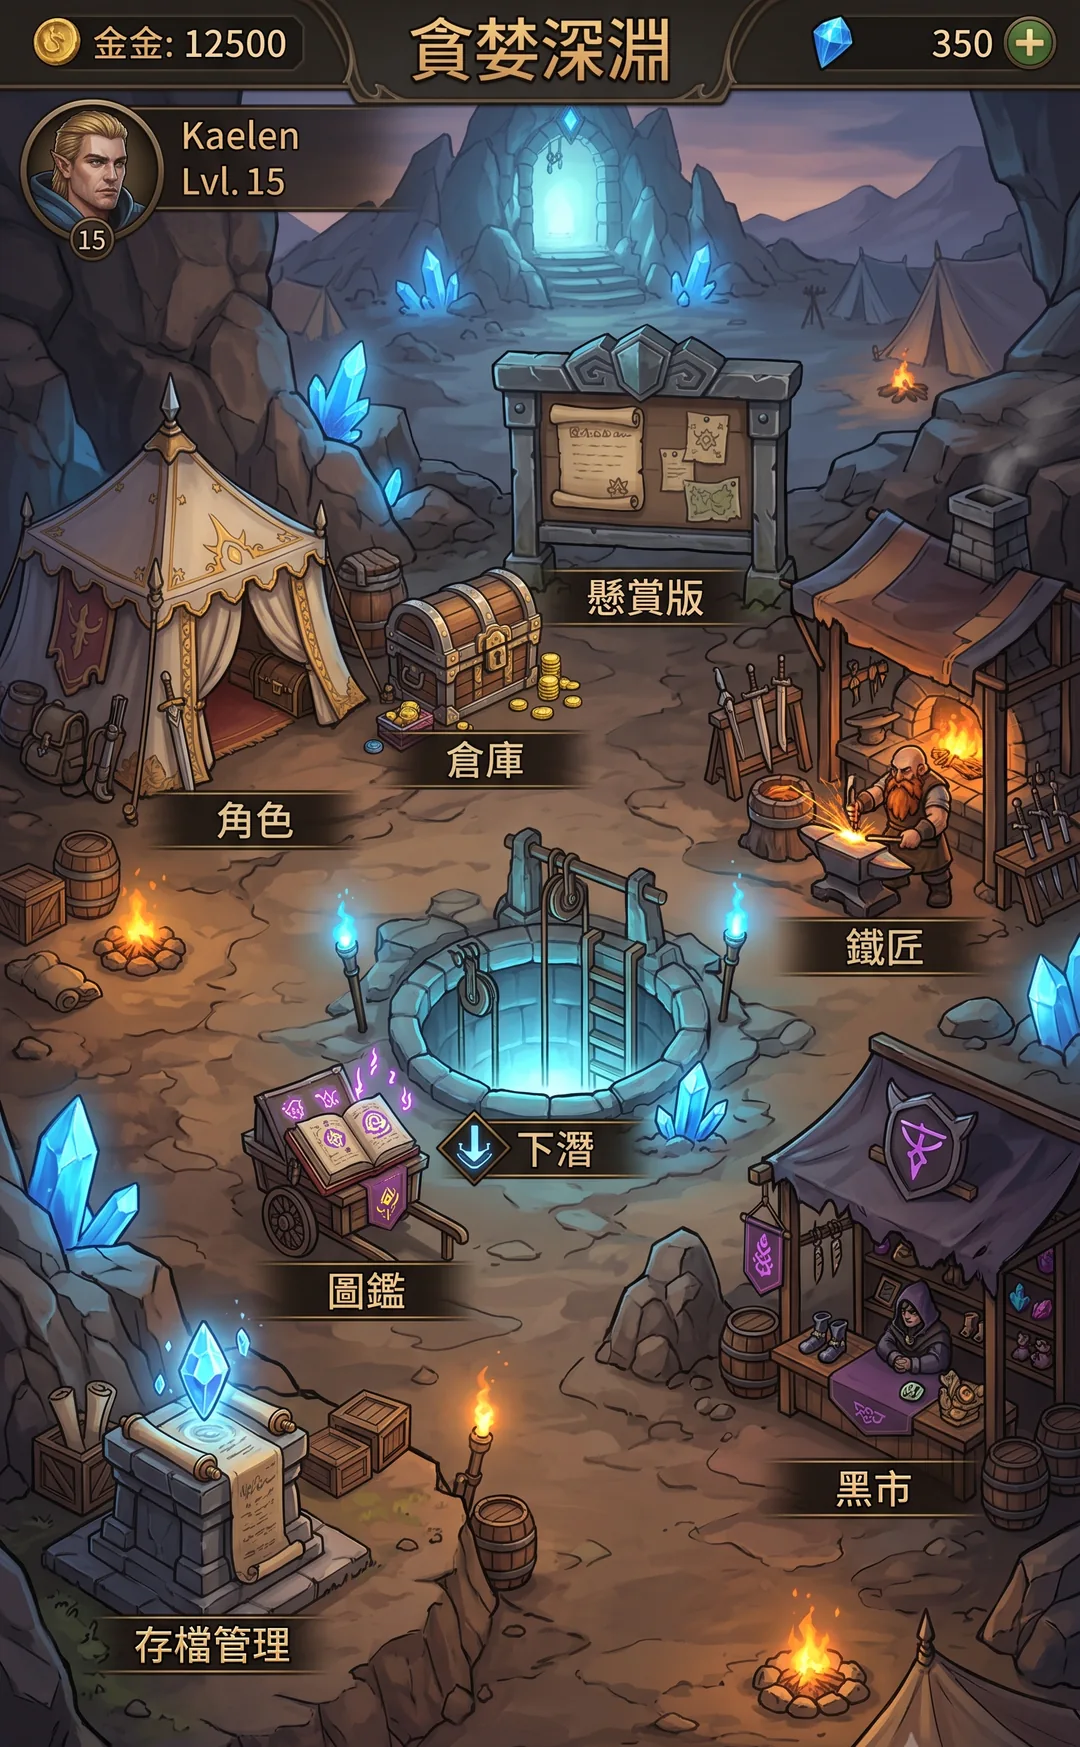
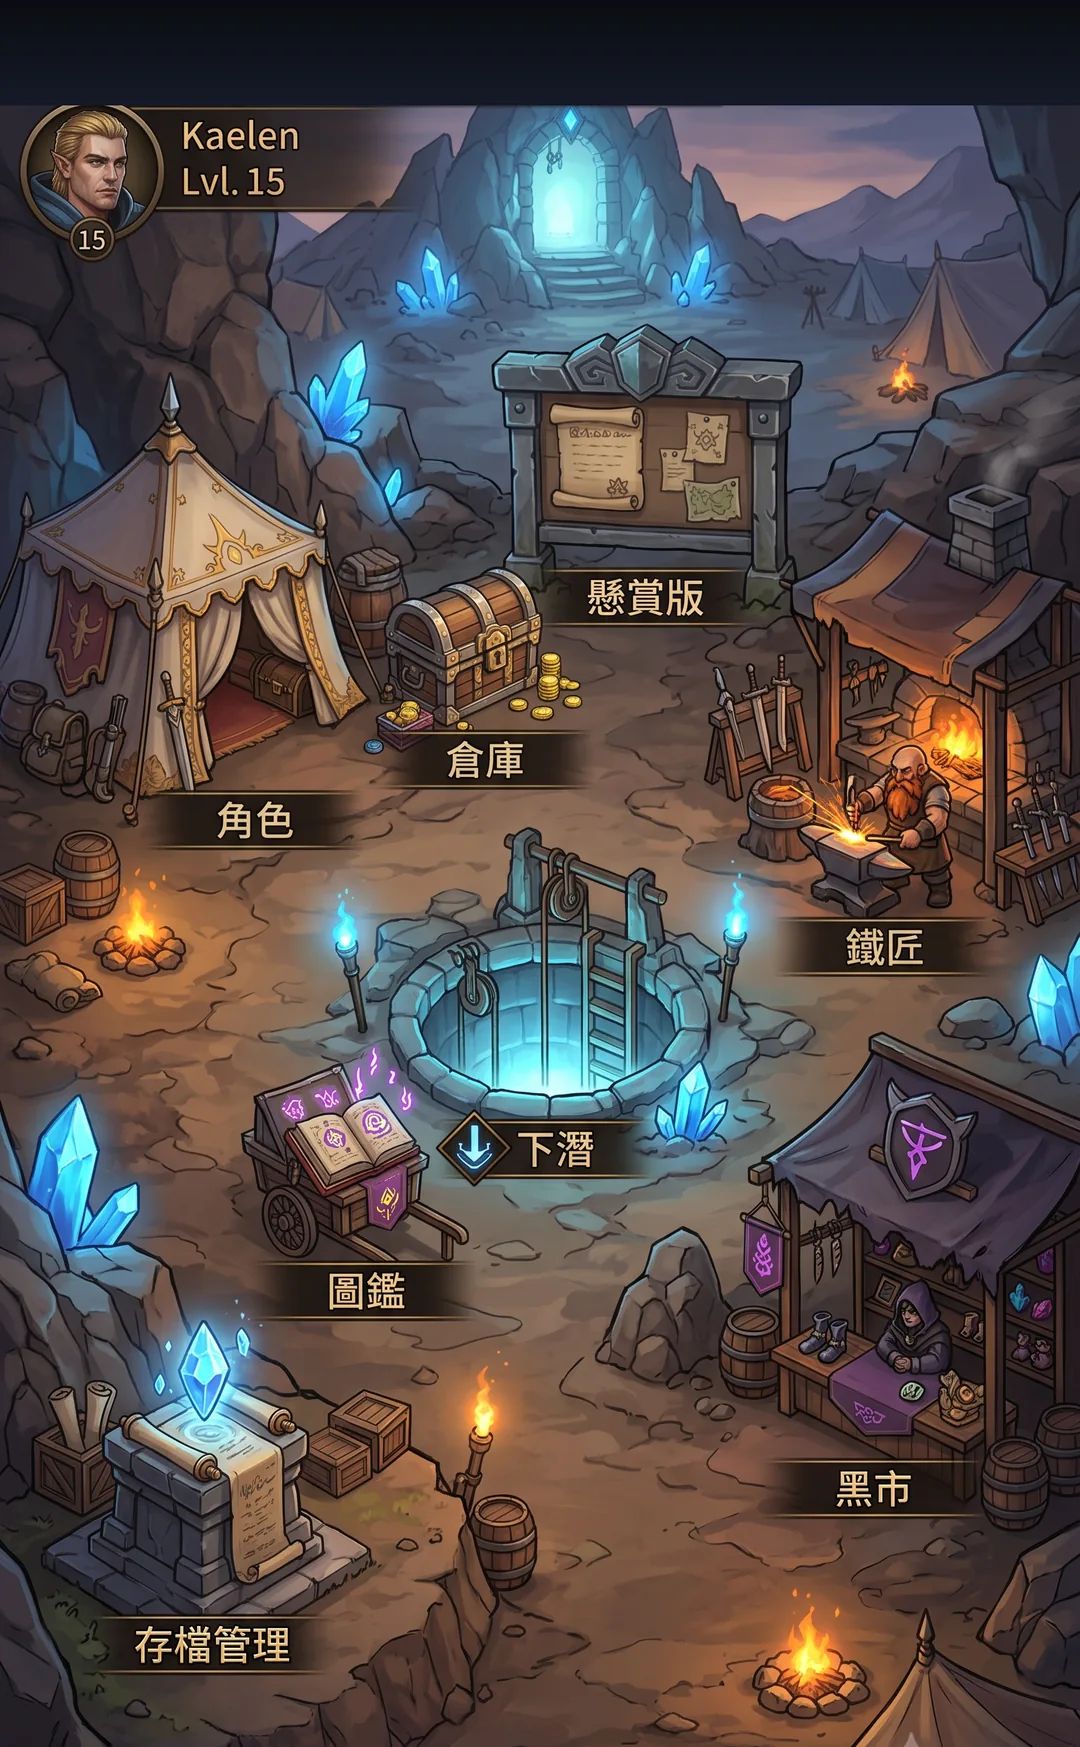
Add files via upload

Changed region(s): [[0.0, 0.0, 1.0, 0.0618]]

diff --git a/rpg/index.html b/rpg/index.html
@@ -6,7 +6,7 @@
 <meta name="apple-mobile-web-app-capable" content="yes">
 <meta name="theme-color" content="#0b0d12">
 <title>貪婪深淵</title>
-<link rel="stylesheet" href="style.css?v=338">
+<link rel="stylesheet" href="style.css?v=339">
 </head>
 <body>
 <div id="app">
@@ -16,7 +16,7 @@
   <div class="spacer"></div>
   <h1 class="title">貪婪深淵</h1>
   <div class="subtitle">深入一層，或帶著一切離開</div>
-  <div style="text-align:center;color:var(--dim);font-size:12px;letter-spacing:2px;margin-top:8px">V3.38</div>
+  <div style="text-align:center;color:var(--dim);font-size:12px;letter-spacing:2px;margin-top:8px">V3.39</div>
   <div class="spacer"></div>
   <button class="btn primary" onclick="titleStart()">進入深淵</button>
   <div style="height:10px"></div>
@@ -39,6 +39,7 @@
 <!-- ===== 營地 ===== -->
 <div class="screen" id="s-camp">
   <div class="camp-scene">
+    <div class="ov-title">貪婪深淵</div>
     <div class="ov-gold">🪙 <span id="camp-gold">0</span></div>
     <div class="ov-hero" onclick="openRoster()">
       <span class="ov-hero-ic" id="camp-cls-ic"></span>
@@ -158,6 +159,6 @@
 </div>
 <div class="sheet-mask" id="sheet-mask" onclick="if(event.target===this)closeSheet()"><div class="sheet" id="sheet"></div></div>
 <div class="toast" id="toast"></div>
-<script src="data.js?v=338"></script><script src="core.js?v=338"></script><script src="account.js?v=338"></script><script src="items.js?v=338"></script><script src="battle.js?v=338"></script><script src="run.js?v=338"></script><script src="ui.js?v=338"></script>
+<script src="data.js?v=339"></script><script src="core.js?v=339"></script><script src="account.js?v=339"></script><script src="items.js?v=339"></script><script src="battle.js?v=339"></script><script src="run.js?v=339"></script><script src="ui.js?v=339"></script>
 </body>
 </html>

diff --git a/rpg/style.css b/rpg/style.css
@@ -90,7 +90,8 @@ h1.title{
 .milestone{font-size:12px;color:var(--dim);text-align:center;margin-top:2px;}
 /* 營地美圖：背景圖＋透明熱區＋動態疊層 */
 #s-camp{padding:0;}
-.camp-scene{position:relative;width:100%;flex:1;min-height:0;overflow:hidden;background:#0b0d12 url("camp.webp?v=338") center center/cover no-repeat;}
+.camp-scene{position:relative;width:100%;flex:1;min-height:0;overflow:hidden;background:#0b0d12 url("camp.webp?v=339") center center/cover no-repeat;}
+.ov-title{position:absolute;left:50%;top:6px;transform:translateX(-50%);font-family:"Songti TC","Noto Serif TC",serif;font-weight:700;font-size:23px;letter-spacing:6px;text-indent:6px;background:linear-gradient(180deg,#f0d896,#b8842e);-webkit-background-clip:text;background-clip:text;-webkit-text-fill-color:transparent;text-shadow:0 0 18px rgba(216,168,76,.18);}
 .hot{position:absolute;transform:translate(-50%,-50%);cursor:pointer;border-radius:16px;}
 .hot:active{background:rgba(216,168,76,.20);}
 .hot-badge{position:absolute;top:-6px;right:2px;background:var(--red);color:#fff;font-size:12px;border-radius:9px;padding:0 6px;min-width:18px;text-align:center;line-height:18px;}